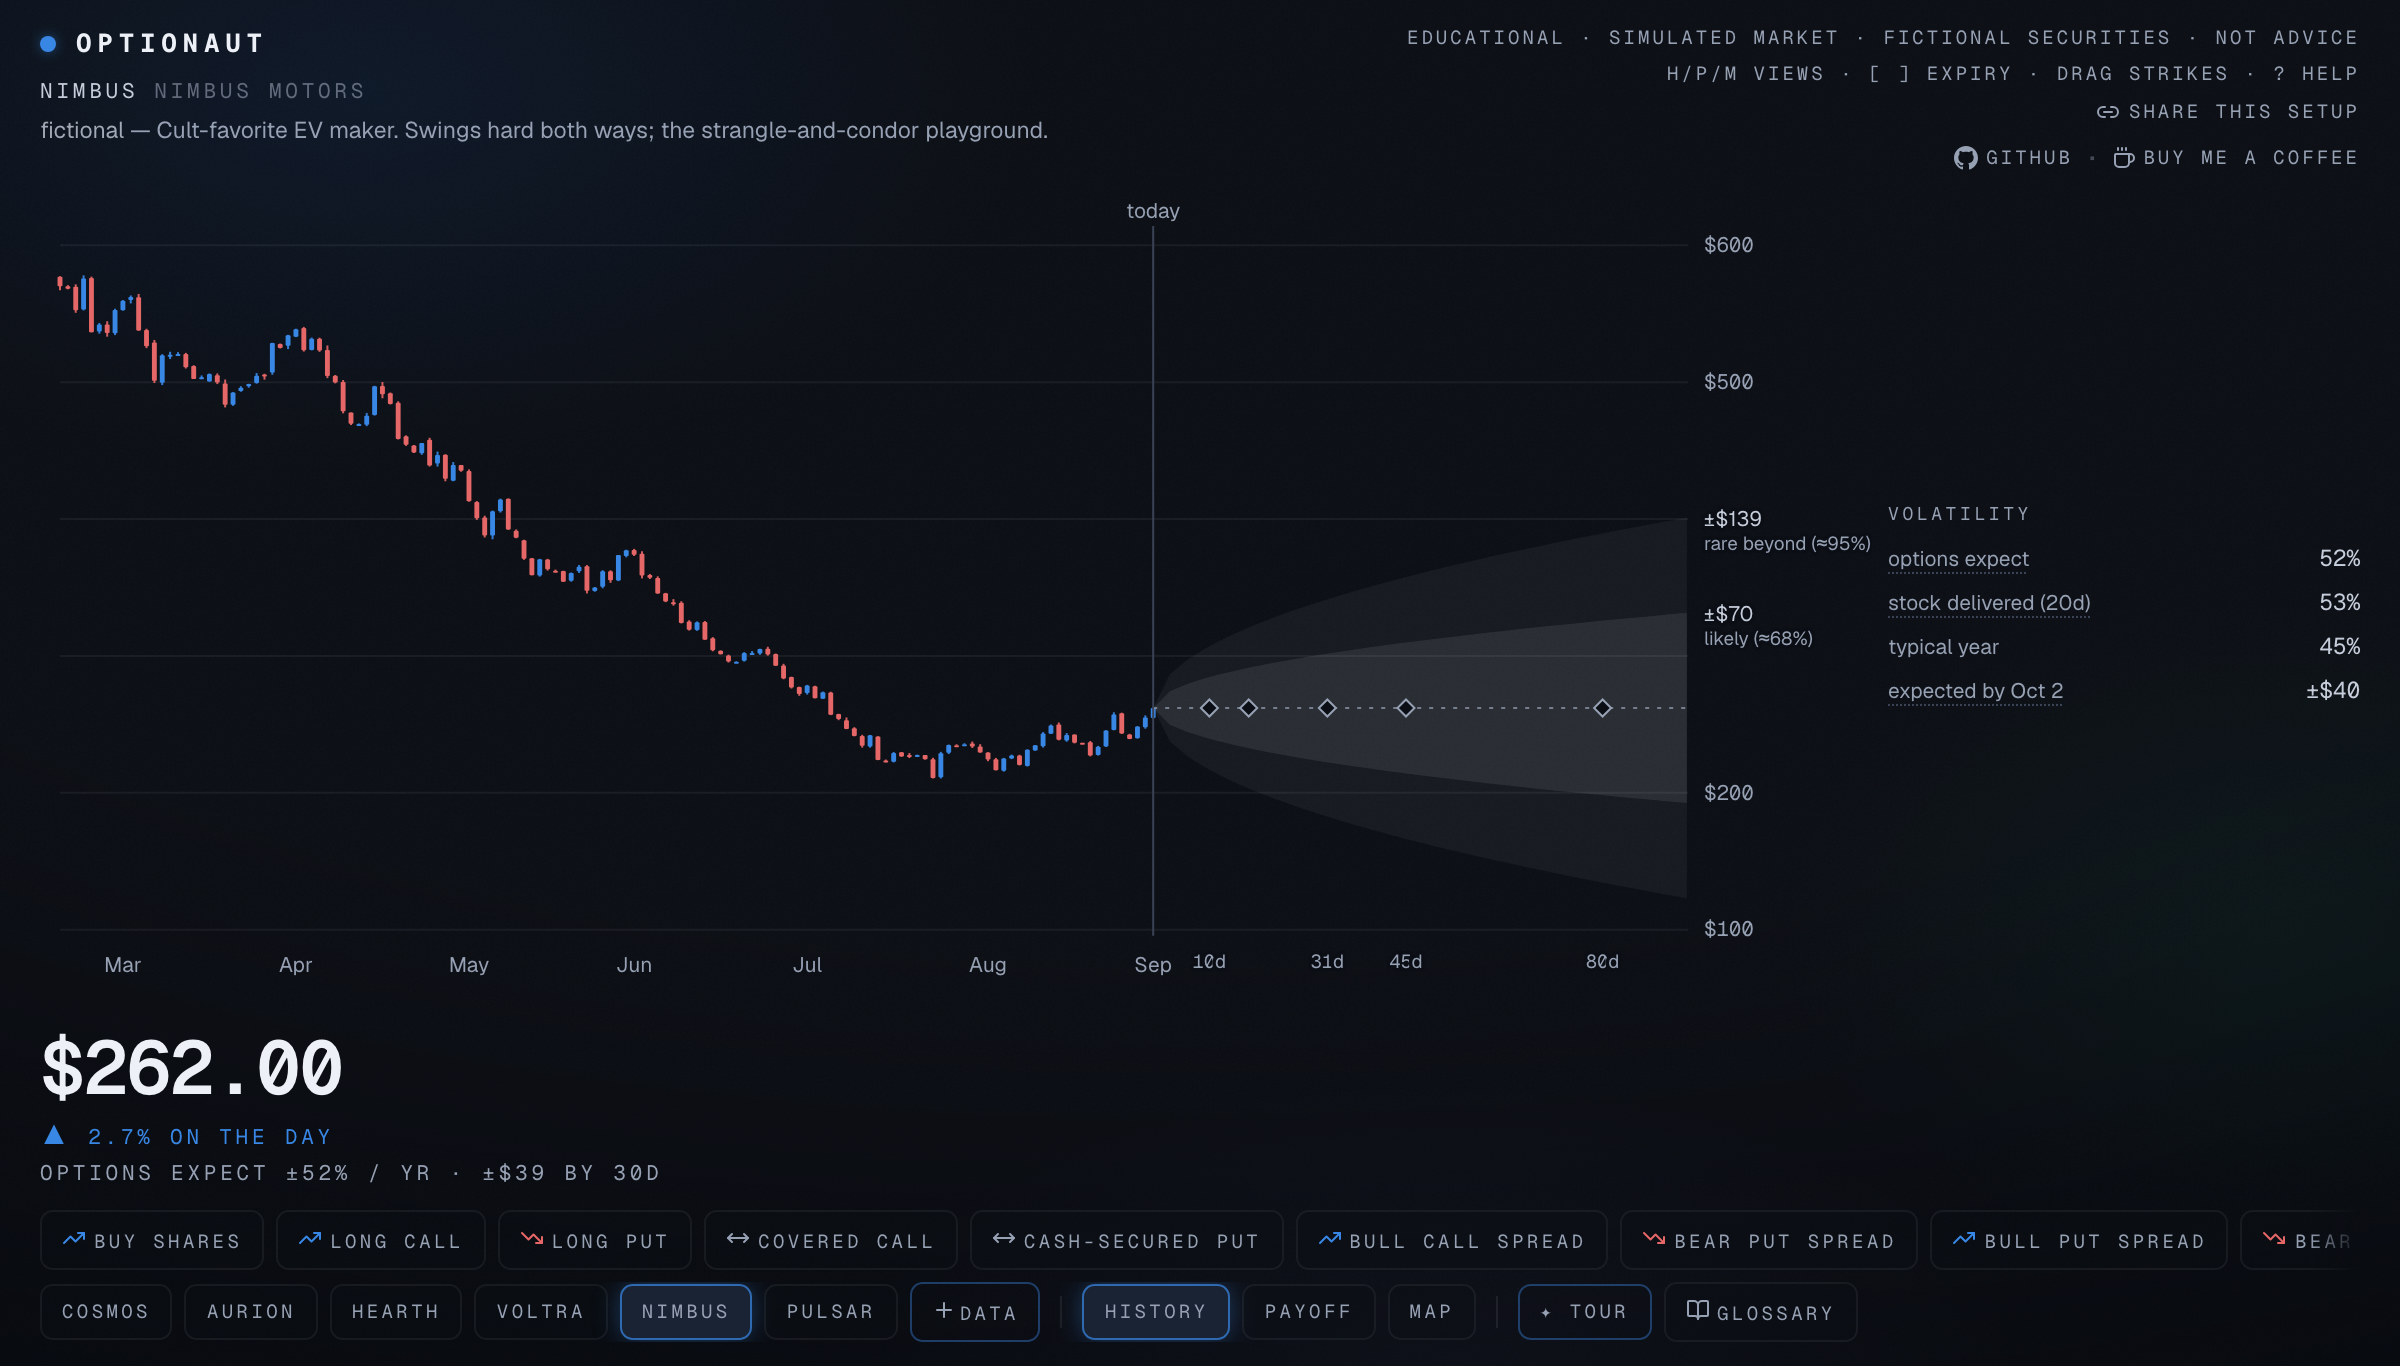
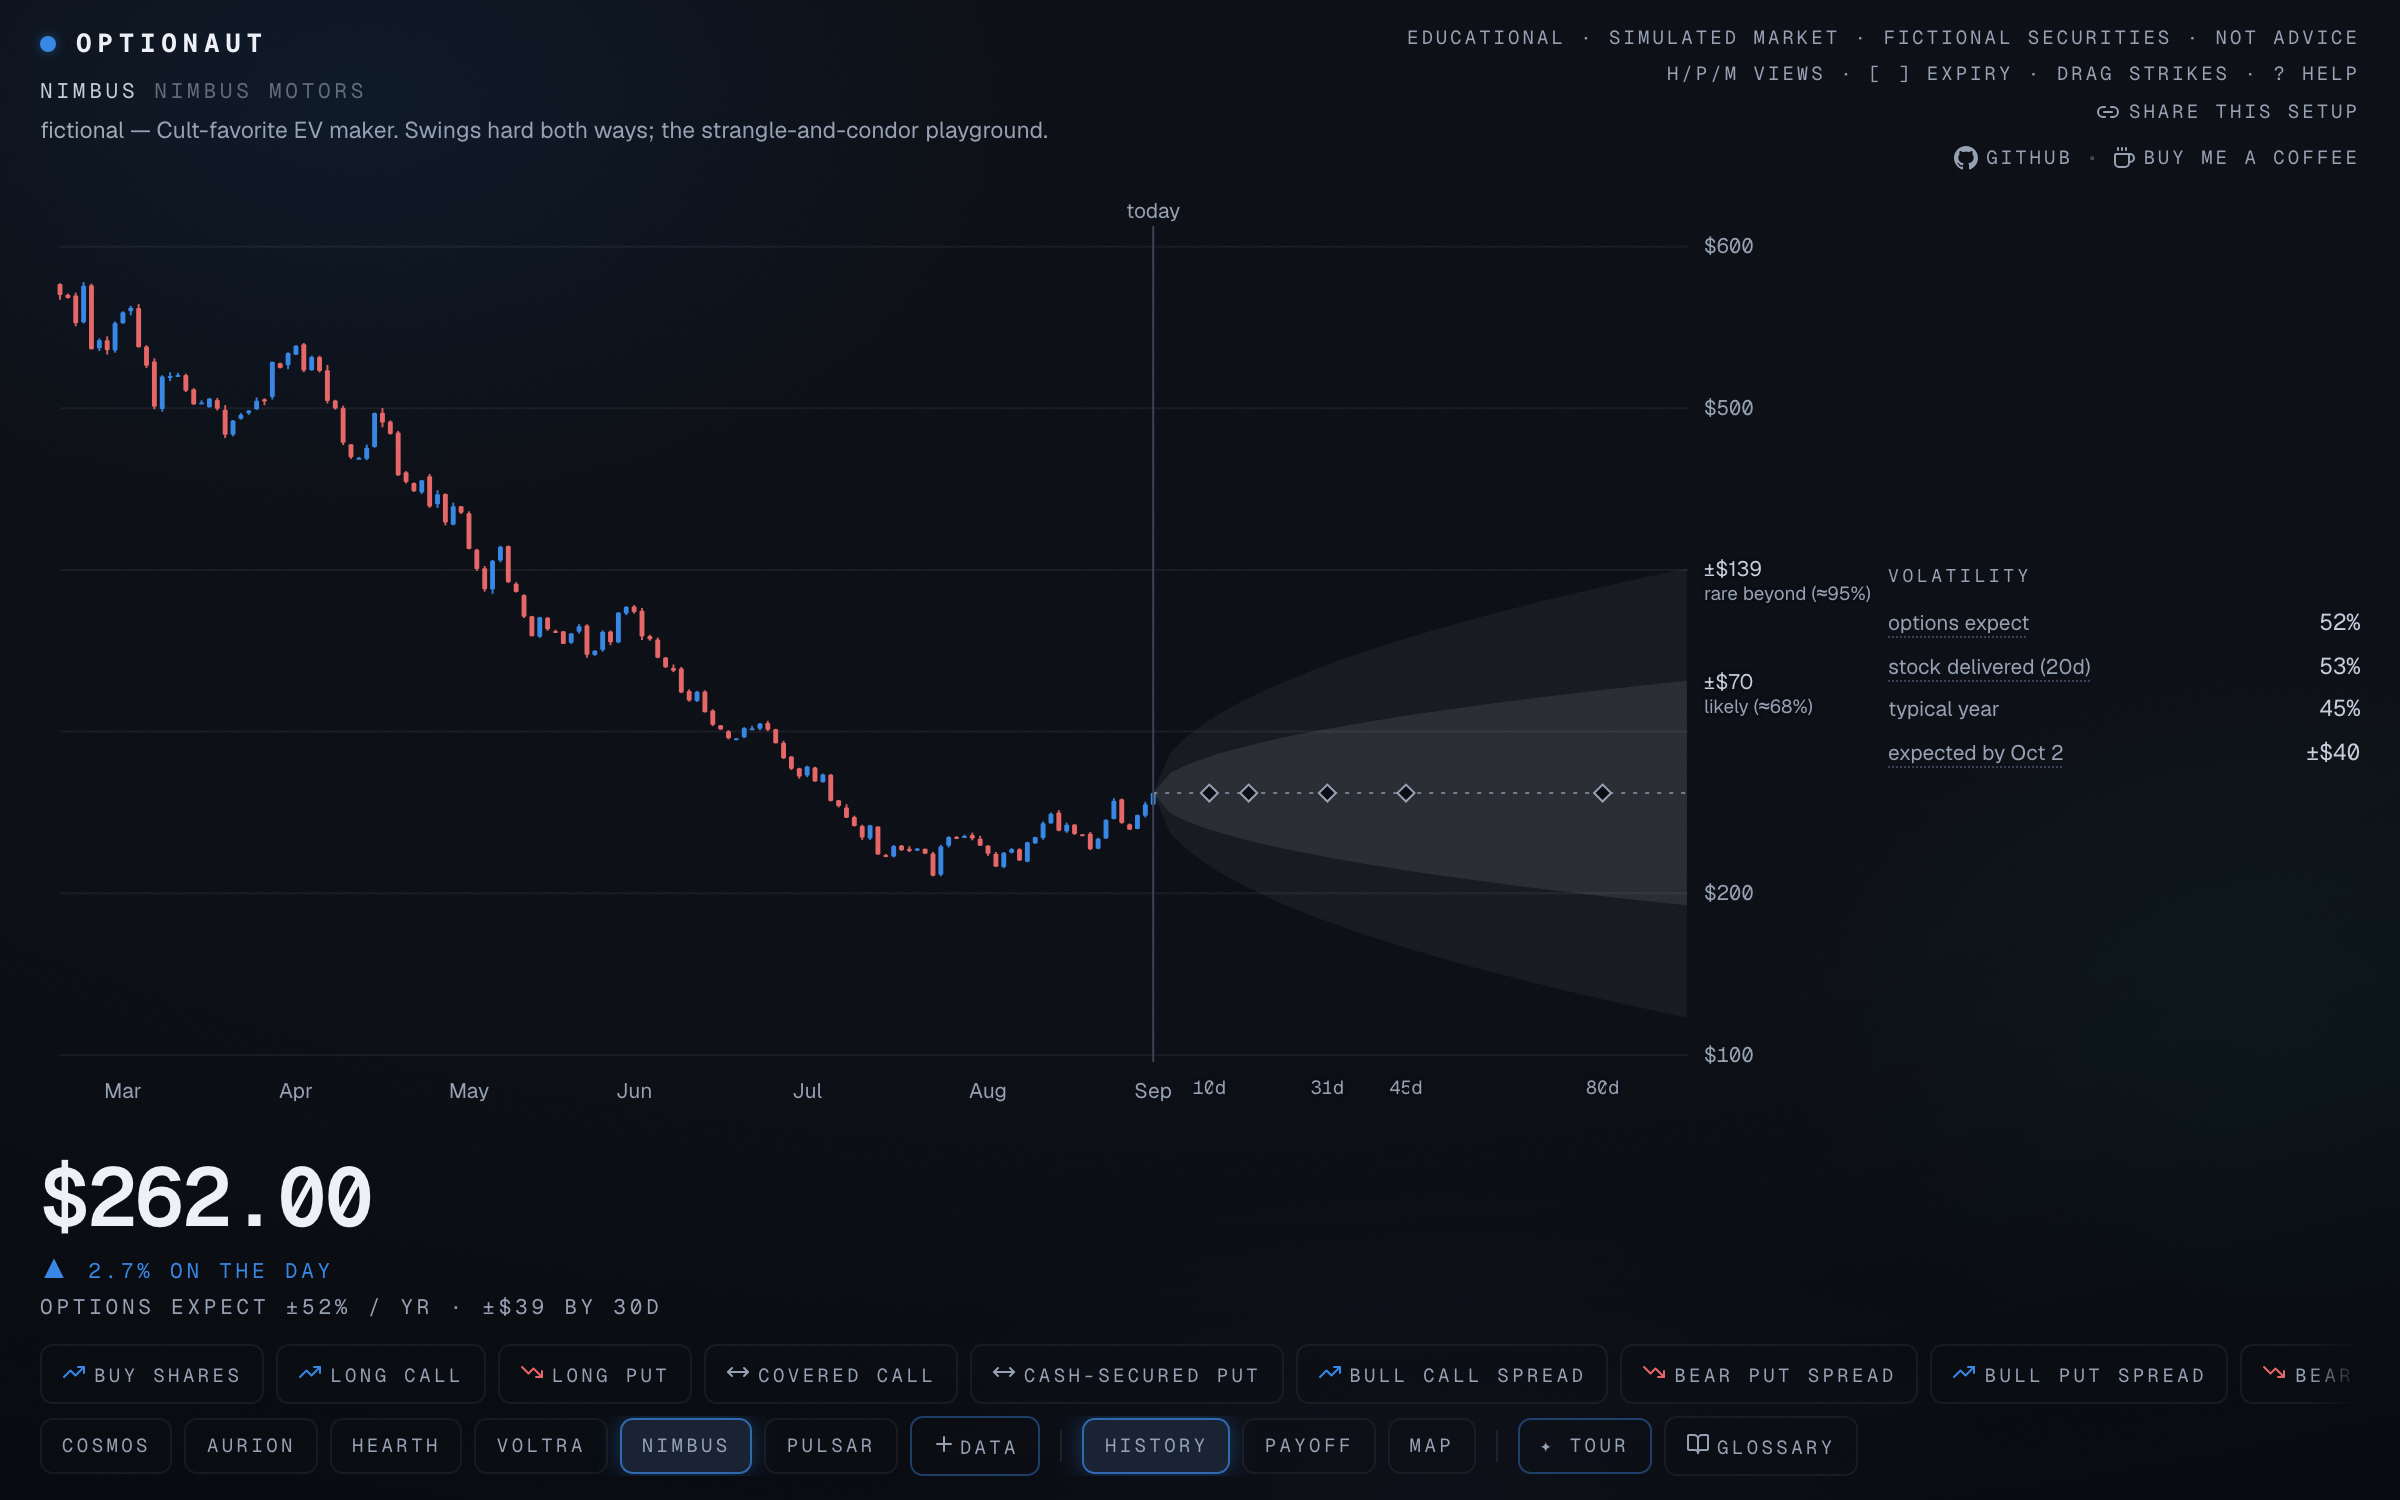
The dial column stops climbing into the HUD
On short viewports the right aside's content outgrew its row, and
plain justify-center spills overflow both ways — the expiry pills rode
up under the new github·coffee line (visible in the README shot).
Safe-centering keeps it centered when it fits and top-aligns it when
it doesn't, with overflow-y-auto so the greeks stay reachable on a
squat window. Screenshots retaken at 1200×750, where nothing scrolls.

diff --git a/src/components/cockpit/Cockpit.tsx b/src/components/cockpit/Cockpit.tsx
@@ -248,8 +248,11 @@ export function Cockpit({ initial }: { initial?: CockpitInitial }) {
         ) : (
           <div className="flex-1" />
         )}
+        {/* safe-centered: centered when it fits, top-aligned when the
+            viewport is short — plain justify-center overflows both ways
+            and pushes the expiry pills up under the HUD */}
         {snapshot && (
-          <aside className="hidden w-60 shrink-0 flex-col justify-center gap-6 pr-1 lg:flex">
+          <aside className="hidden min-h-0 w-60 shrink-0 flex-col justify-center-safe gap-5 overflow-y-auto pr-1 lg:flex">
             {view !== "history" && <DialStack snapshot={snapshot} legs={legs} dte={dte} />}
             <StatStack snapshot={snapshot} legs={legs} dte={dte} />
           </aside>
